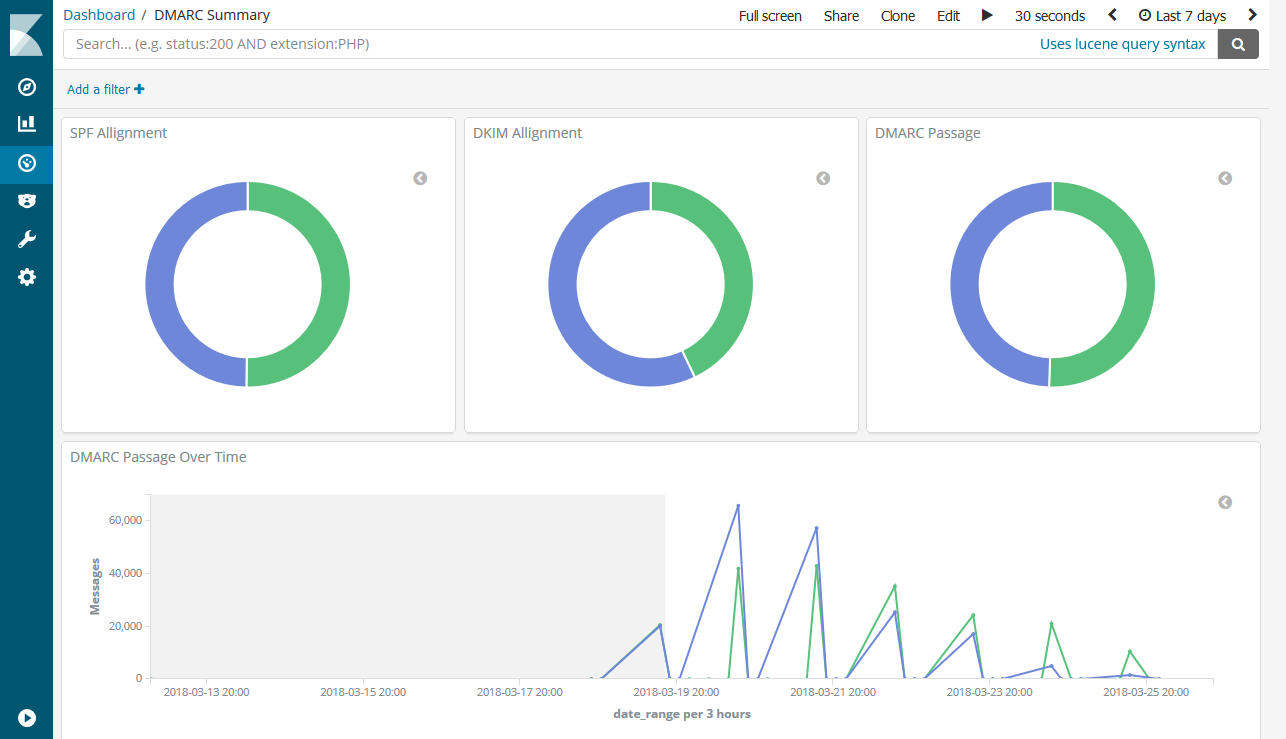
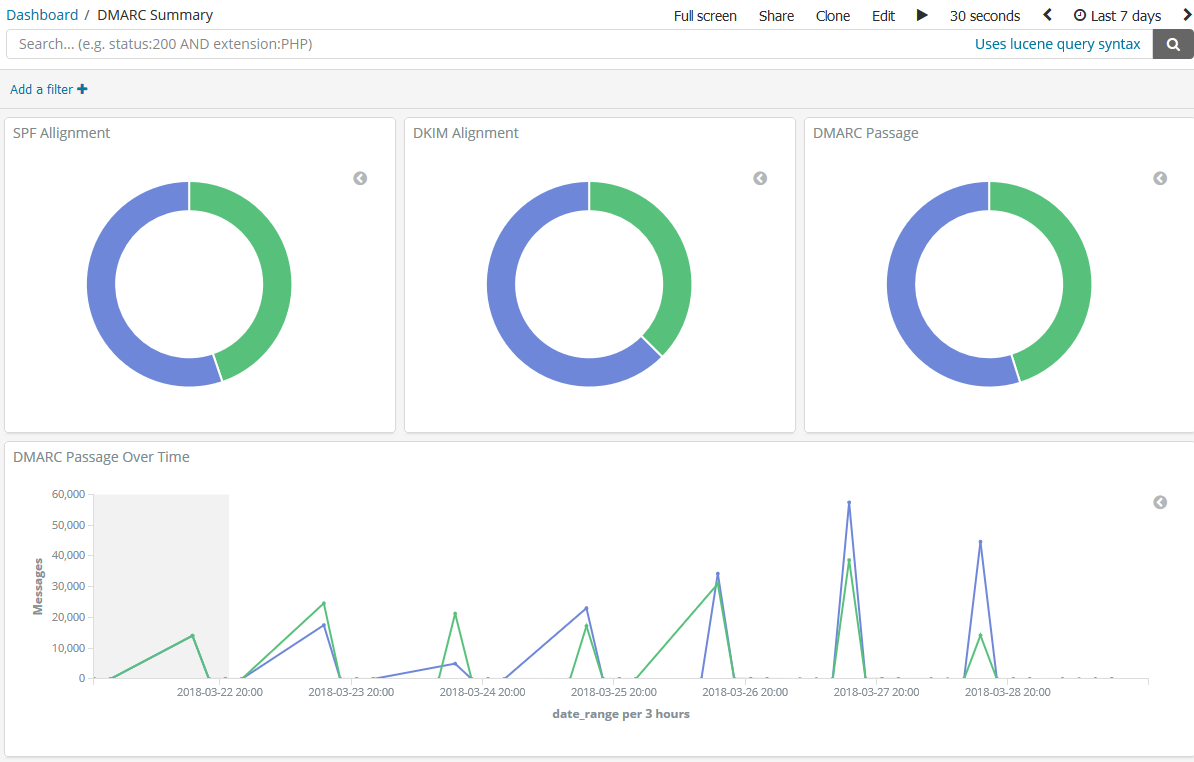
Update dashbord screenshot

diff --git a/README.rst b/README.rst
@@ -7,8 +7,6 @@ parsedmarc
 .. image:: https://raw.githubusercontent.com/domainaware/parsedmarc/master/docs/_static/screenshots/dmarc-summary-charts.png
    :alt: A screenshot of DMARC summary charts in Kibana
    :align: center
-   :width: 1286 px
-   :height: 379 px
    :scale: 50
    :target: https://raw.githubusercontent.com/domainaware/parsedmarc/master/docs/_static/screenshots/dmarc-summary-charts.png
 
